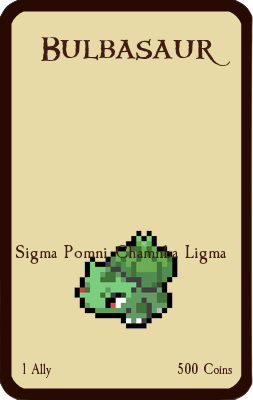
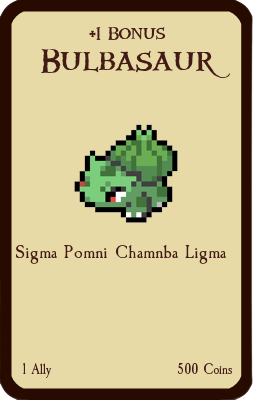
Fixed values

Changed region(s): [[0.2767, 0.3, 0.7194, 0.84], [0.166, 0.06, 0.913, 0.21]]

diff --git a/src/munchking_card.py b/src/munchking_card.py
@@ -8,14 +8,22 @@ class MunchkinCard(Card):
     BODY_FONT = "CaslonAntique"
     FONT_COLOR = (67, 27, 21)
 
-    def __init__(self, card_title: str, description_text: str, ally: int, coins: int):
+    def __init__(self, card_title: str, bonus: int, description_text: str, ally: int, coins: int):
         texts = []
+        texts.append(Text(
+            text=f"+{bonus} Bonus",
+            font=self.TITLE_FONT,
+            color=self.FONT_COLOR,
+            size=17,
+            position_percent=(0.5, 0.07)
+        ))
+
         texts.append(Text(
             text=card_title,
             font=self.TITLE_FONT,
             color=self.FONT_COLOR,
             size=30,
-            position_percent=(0.5, 0.1)
+            position_percent=(0.5, 0.13)
         ))
 
         texts.append(Text(
@@ -23,7 +31,7 @@ class MunchkinCard(Card):
             font=self.BODY_FONT,
             color=self.FONT_COLOR,
             size=20,
-            position_percent=(0.35, 0.6)
+            position_percent=(0.35, 0.60)
         ))
 
         texts.append(Text(

diff --git a/src/card.py b/src/card.py
@@ -23,7 +23,7 @@ class Card():
         sprite_image = Image.open(self._card_sprite_path)
         sprite_image.thumbnail(self.SPRITE_SIZES)
 
-        sprite_image_pos = ((card_background_image.width - sprite_image.width) // 2, (card_background_image.height - sprite_image.height) // 2)
+        sprite_image_pos = ((card_background_image.width - sprite_image.width) // 2, -50)
         card_background_image.paste(sprite_image, sprite_image_pos, sprite_image.convert("RGBA"))
 
         card_draw_ctx = ImageDraw.Draw(card_background_image)

diff --git a/src/card_generator.py b/src/card_generator.py
@@ -4,6 +4,7 @@ from munchking_card import MunchkinCard
 def main():
     munchkin_card = MunchkinCard(
         card_title="Bulbasaur",
+        bonus=1,
         description_text="Sigma Pomni Chamnba Ligma",
         ally=1,
         coins=500
